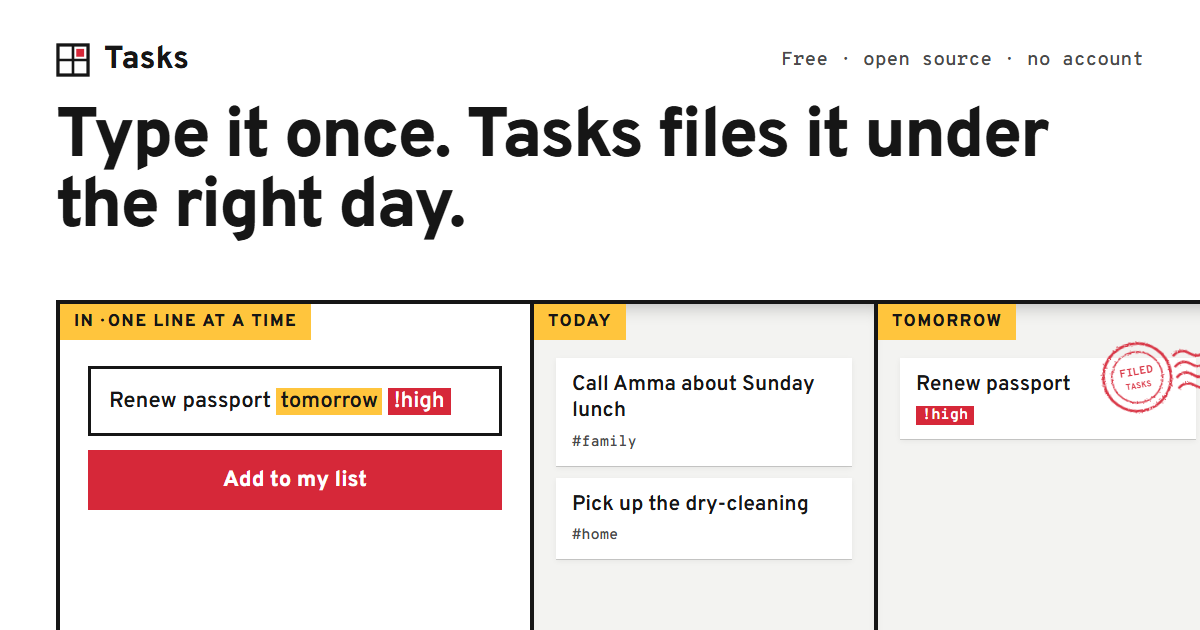
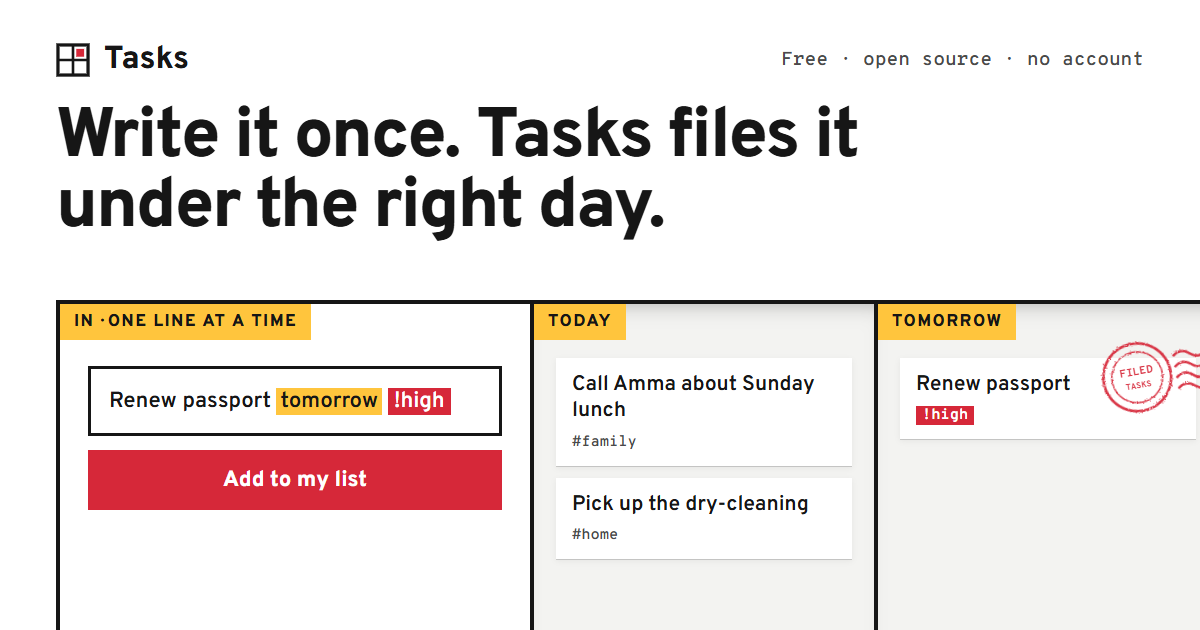
Share images: headline matches the site; GitHub social preview card

Changed region(s): [[0.0308, 0.1508, 0.8942, 0.3921]]

diff --git a/docs/design/og/github-social.html b/docs/design/og/github-social.html
@@ -1,0 +1,65 @@
+<!doctype html>
+<html lang="en">
+<head>
+<meta charset="utf-8">
+<title>Tasks GitHub preview</title>
+<style>
+@font-face { font-family: "Overpass"; src: url("../../../react/node_modules/@fontsource-variable/overpass/files/overpass-latin-wght-normal.woff2") format("woff2"); font-weight: 100 900; }
+@font-face { font-family: "Overpass Mono"; src: url("../../../react/node_modules/@fontsource-variable/overpass-mono/files/overpass-mono-latin-wght-normal.woff2") format("woff2"); font-weight: 300 700; }
+html, body { margin: 0; }
+body { width: 1280px; height: 640px; overflow: hidden; background: #FFFFFF; color: #161616; font-family: "Overpass", sans-serif; -webkit-font-smoothing: antialiased; position: relative; }
+.top { position: absolute; left: 56px; right: 56px; top: 40px; display: flex; justify-content: space-between; align-items: center; }
+.brand { display: flex; align-items: center; gap: 14px; font-weight: 800; font-size: 32px; }
+.facts { font: 600 19px "Overpass Mono", monospace; color: #4A4A4A; }
+h1 { position: absolute; left: 56px; top: 104px; margin: 0; width: 1000px; font-size: 70px; line-height: 1; font-weight: 800; letter-spacing: -0.03em; }
+.frame { position: absolute; left: 56px; top: 300px; width: 1228px; height: 400px; display: grid; grid-template-columns: 470px 400px 1fr; gap: 4px; background: #161616; border-top: 4px solid #161616; border-left: 4px solid #161616; }
+.slot { background: #F3F3F1; box-shadow: inset 0 16px 20px -16px rgba(0,0,0,.3); position: relative; }
+.slot.in { background: #FFFFFF; box-shadow: none; }
+.label { display: inline-block; background: #FFC53D; color: #161616; padding: 7px 14px; font-weight: 800; font-size: 17px; letter-spacing: .09em; text-transform: uppercase; }
+.line { margin: 26px 28px 0; height: 64px; border: 3px solid #161616; display: flex; align-items: center; padding: 0 18px; font-weight: 600; font-size: 22px; white-space: nowrap; overflow: hidden; }
+.tok-day { background: #FFC53D; padding: 0 4px; }
+.tok-high { background: #D62839; color: #FFFFFF; padding: 0 6px; margin: 0 6px; }
+.btn { margin: 14px 28px 0; height: 60px; background: #D62839; color: #FFFFFF; display: grid; place-items: center; font-weight: 800; font-size: 22px; }
+.slips { padding: 18px 22px 0; display: grid; gap: 12px; }
+.slip { position: relative; background: #FFFFFF; box-shadow: 0 1px 0 rgba(0,0,0,.16), 0 2px 6px rgba(0,0,0,.06); padding: 14px 16px; }
+.slip p { margin: 0; font-weight: 600; font-size: 21px; line-height: 1.25; }
+.meta { margin-top: 8px; display: flex; gap: 10px; font: 600 15px "Overpass Mono", monospace; color: #4A4A4A; }
+.meta .high { background: #D62839; color: #FFFFFF; padding: 0 6px; font-weight: 700; }
+.postmark { position: absolute; right: -52px; top: -26px; width: 150px; height: 78px; color: #D62839; transform: rotate(-10deg); opacity: .92; }
+.postmark text { fill: #D62839; font-family: "Overpass Mono", monospace; font-weight: 700; }
+</style>
+</head>
+<body>
+  <svg width="0" height="0" style="position:absolute"><filter id="ink"><feTurbulence type="fractalNoise" baseFrequency="1.1" numOctaves="2" seed="7"/><feDisplacementMap in="SourceGraphic" scale="2.4"/></filter></svg>
+  <div class="top">
+    <div class="brand">
+      <svg width="34" height="34" viewBox="0 0 26 26"><rect x="1.5" y="1.5" width="23" height="23" fill="none" stroke="#161616" stroke-width="2.5"/><path d="M13 2v22M2 13h22" stroke="#161616" stroke-width="2"/><rect x="15.5" y="4.5" width="6" height="6" fill="#D62839"/></svg>
+      Tasks
+    </div>
+    <div class="facts">Free · open source · no account</div>
+  </div>
+  <h1>Write it once. Tasks files it under the right day.</h1>
+  <div class="frame">
+    <div class="slot in">
+      <span class="label">In · one line at a time</span>
+      <div class="line">Renew passport&nbsp;<span class="tok-day">tomorrow</span><span class="tok-high">!high</span></div>
+      <div class="btn">Add to my list</div>
+    </div>
+    <div class="slot">
+      <span class="label">Today</span>
+      <div class="slips">
+        <div class="slip"><p>Call Amma about Sunday lunch</p><div class="meta"><span>#family</span></div></div>
+        <div class="slip"><p>Pick up the dry-cleaning</p><div class="meta"><span>#home</span></div></div>
+      </div>
+    </div>
+    <div class="slot">
+      <span class="label">Tomorrow</span>
+      <div class="slips">
+        <div class="slip"><p>Renew passport</p><div class="meta"><span class="high">!high</span></div>
+          <svg class="postmark" viewBox="0 0 124 64"><g filter="url(#ink)" fill="none" stroke="currentColor"><circle cx="32" cy="32" r="28" stroke-width="2.2"/><circle cx="32" cy="32" r="21" stroke-width="1.2"/><path d="M64 20 q7 -6 14 0 t14 0 t14 0 t14 0" stroke-width="2"/><path d="M64 29 q7 -6 14 0 t14 0 t14 0 t14 0" stroke-width="2"/><path d="M64 38 q7 -6 14 0 t14 0 t14 0 t14 0" stroke-width="2"/><path d="M64 47 q7 -6 14 0 t14 0 t14 0 t14 0" stroke-width="2"/></g><text x="32" y="30" text-anchor="middle" font-size="9">FILED</text><text x="32" y="41" text-anchor="middle" font-size="7">TASKS</text></svg>
+        </div>
+      </div>
+    </div>
+  </div>
+</body>
+</html>

diff --git a/docs/design/og/og.html b/docs/design/og/og.html
@@ -38,7 +38,7 @@ h1 { position: absolute; left: 56px; top: 104px; margin: 0; width: 1000px; font-
     </div>
     <div class="facts">Free · open source · no account</div>
   </div>
-  <h1>Type it once. Tasks files it under the right day.</h1>
+  <h1>Write it once. Tasks files it under the right day.</h1>
   <div class="frame">
     <div class="slot in">
       <span class="label">In · one line at a time</span>

diff --git a/docs/design/og/README.md b/docs/design/og/README.md
@@ -1,11 +1,17 @@
-# Share image (og.png)
+# Share images
 
-`react/public/og.png` (1200 x 630) is drawn in code from `og.html` in this folder: no image generator, no stock art. It shows the Sorting Frame: the typed line in the IN slot and the same task filed under Tomorrow with a postmark. The image has no real dates, so it does not go stale.
+Both images are drawn in code from the HTML in this folder: no image generator, no stock art. They show the Sorting Frame: the typed line in the IN slot and the same task filed under Tomorrow with a postmark. They have no real dates, so they do not go stale.
 
-To make it again after a design change (from this folder, after `npm install` in `react/`):
+| Image | Source | Size | Used for |
+|---|---|---|---|
+| `react/public/og.png` | `og.html` | 1200 x 630 | Link previews of the start page |
+| `github-social.png` | `github-social.html` | 2560 x 1280 (1280 x 640 at 2x) | The GitHub social preview (Settings > General > Social preview) |
+
+To make them again after a design change (from this folder, after `npm install` in `react/`):
 
 ```bash
 msedge --headless=new --hide-scrollbars --force-device-scale-factor=1 --window-size=1200,630 --virtual-time-budget=3000 --screenshot=og.png og.html
+msedge --headless=new --hide-scrollbars --force-device-scale-factor=2 --window-size=1280,640 --virtual-time-budget=3000 --screenshot=github-social.png github-social.html
 ```
 
-Then copy `og.png` to `react/public/og.png`. Chrome works the same way.
+Then copy `og.png` to `react/public/og.png`, and upload `github-social.png` in the repository settings. Chrome works the same way.
